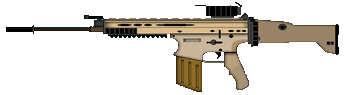
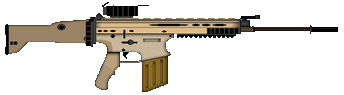
Add weapon animation

diff --git a/entities/components/character_graphics.rb b/entities/components/character_graphics.rb
@@ -1,6 +1,7 @@
 class CharacterGraphics < Component
   WALK_FRAME = 300
   DAMAGE_FRAME = 4
+  PADDING = 16
   DEBUG_COLORS = [
     Gosu::Color::RED,
     Gosu::Color::BLUE,
@@ -10,13 +11,13 @@ class CharacterGraphics < Component
 
   def initialize(game_object)
     super(game_object)
-    @body = charas.frame('4-0.png')
+    @weapon = weapons.frame('ak47s.png')
     @damage_frame = 0
     @image_array = gen_image_array
   end
 
   def update()
-    @body = direction_graphics
+    @body = body_direction
   end
 
   def draw(viewport)
@@ -24,8 +25,9 @@ class CharacterGraphics < Component
       @body = damage_flashing
       @damage_frame -= 1
     end
-    @body.draw(x - 16, y - 16, 1)
+    @body.draw(x - PADDING, y - PADDING, 1)
     draw_bounding_box if $debug
+    draw_weapon
   end
 
   def draw_bounding_box
@@ -49,10 +51,10 @@ class CharacterGraphics < Component
     @body.height
   end
 
-  def direction_graphics
+  def body_direction
     i = (object.direction / 45) % 8
     state_image(graphic = @image_array[i])
-    charas.frame(@flip.to_s + ".png")
+    charas.frame(@anime.to_s + ".png")
   end
 
   def state_image(directional_graphics)
@@ -62,19 +64,21 @@ class CharacterGraphics < Component
 
     if object.throttle_down == true
       if Gosu.milliseconds - (@last_flip || 0 ) > WALK_FRAME || different?(runs)
-        @flip = runs.reject do |t|
-          t == @flip
+        @anime = runs.reject do |t|
+          t == @anime
         end.sample
         @last_flip = Gosu.milliseconds
       end
     else
-      @flip = stand_image
+      @anime = stand_image
     end
   end
 
-  def different?(runs)
-    runs.all? do |run|
-      @flip != run
+  def draw_weapon
+    if object.direction < 180
+      @weapon.draw_rot(x + PADDING / 2, y + PADDING / 2, 2, object.direction - 90)
+    else
+      @weapon.draw_rot(x - PADDING / 2, y + PADDING / 2, 2, object.direction + 90, 0.5, 0.5, -1)
     end
   end
 
@@ -90,6 +94,12 @@ class CharacterGraphics < Component
 
   private
 
+  def different?(runs)
+    runs.all? do |run|
+      @anime != run
+    end
+  end
+
   def gen_image_array
     goal = Array.new(8).map{Array.new(2)}
     for direction in 0..7 do
@@ -102,6 +112,11 @@ class CharacterGraphics < Component
 
   def charas
     @@charas ||= Gosu::TexturePacker.load_json(
-      Utils.media_path('charas.json'), :precise)
+      Utils.media_path('charas.json'))
+  end
+
+  def weapons
+    @@weapons ||= Gosu::TexturePacker.load_json(
+      Utils.media_path('weapons.json'))
   end
 end

diff --git a/game_states/play_state.rb b/game_states/play_state.rb
@@ -8,7 +8,7 @@ class PlayState < GameState
     @map.spawn_points(10)
     @camera = Camera.new
     @object_pool.camera = @camera
-    create_characters(2)
+    create_characters(1)
     @announce = Announce.new(@character, @ai)
     Damage.new(@object_pool, 0, 0).mark_for_removal # initialize damage
   end
